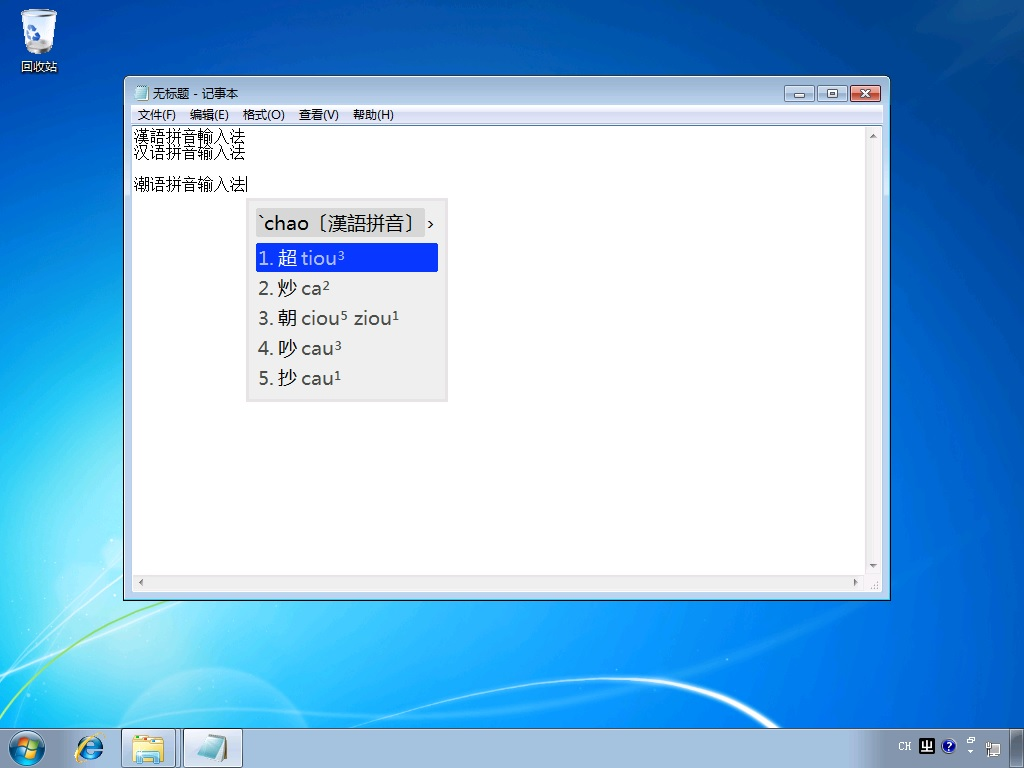
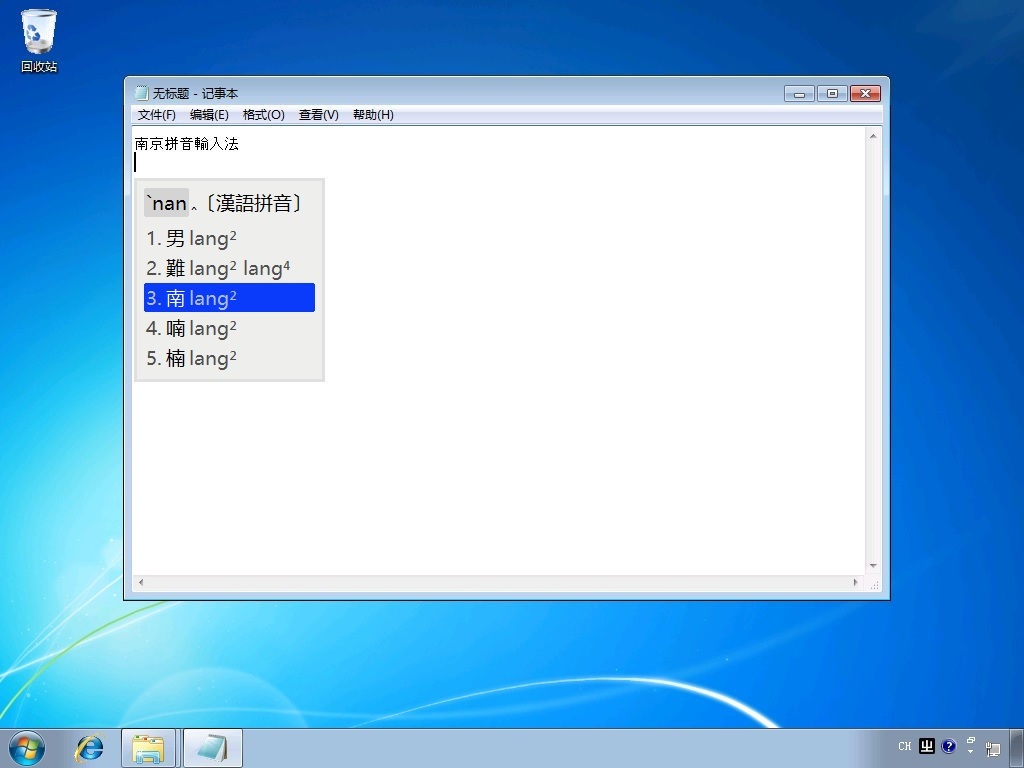
putonghuachalangjinhua

Changed region(s): [[0.125, 0.1562, 0.4375, 0.5312]]

diff --git a/weasel.md b/weasel.md
@@ -102,7 +102,7 @@ lang jin pin in
 ![image-c8]
 
 
-输入法支持用汉语拼音反查南京话拼音。比如不知道“朝”字怎么读，可以按 \` 键（在 Tab 键的上方），然后键入汉语拼音`nan`，就可以查到“南”字的南京话拼音。
+输入法支持用汉语拼音反查南京话拼音。比如不知道“南”字怎么读，可以按 \` 键（在 Tab 键的上方），然后键入汉语拼音`nan`，就可以查到“南”字的南京话拼音。
 
 ![image-c10]
 
